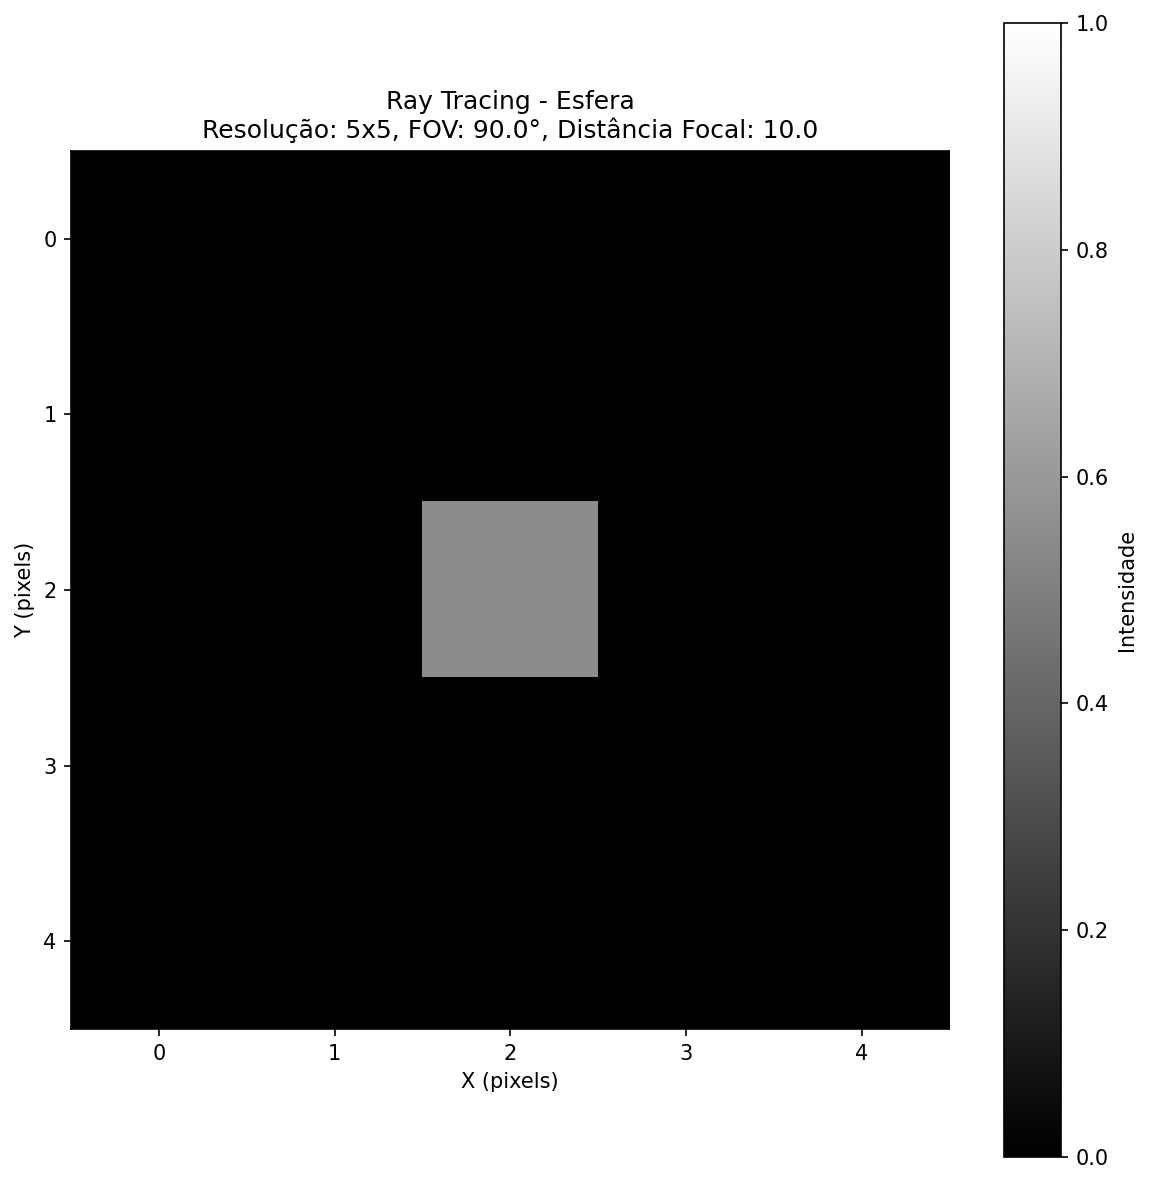
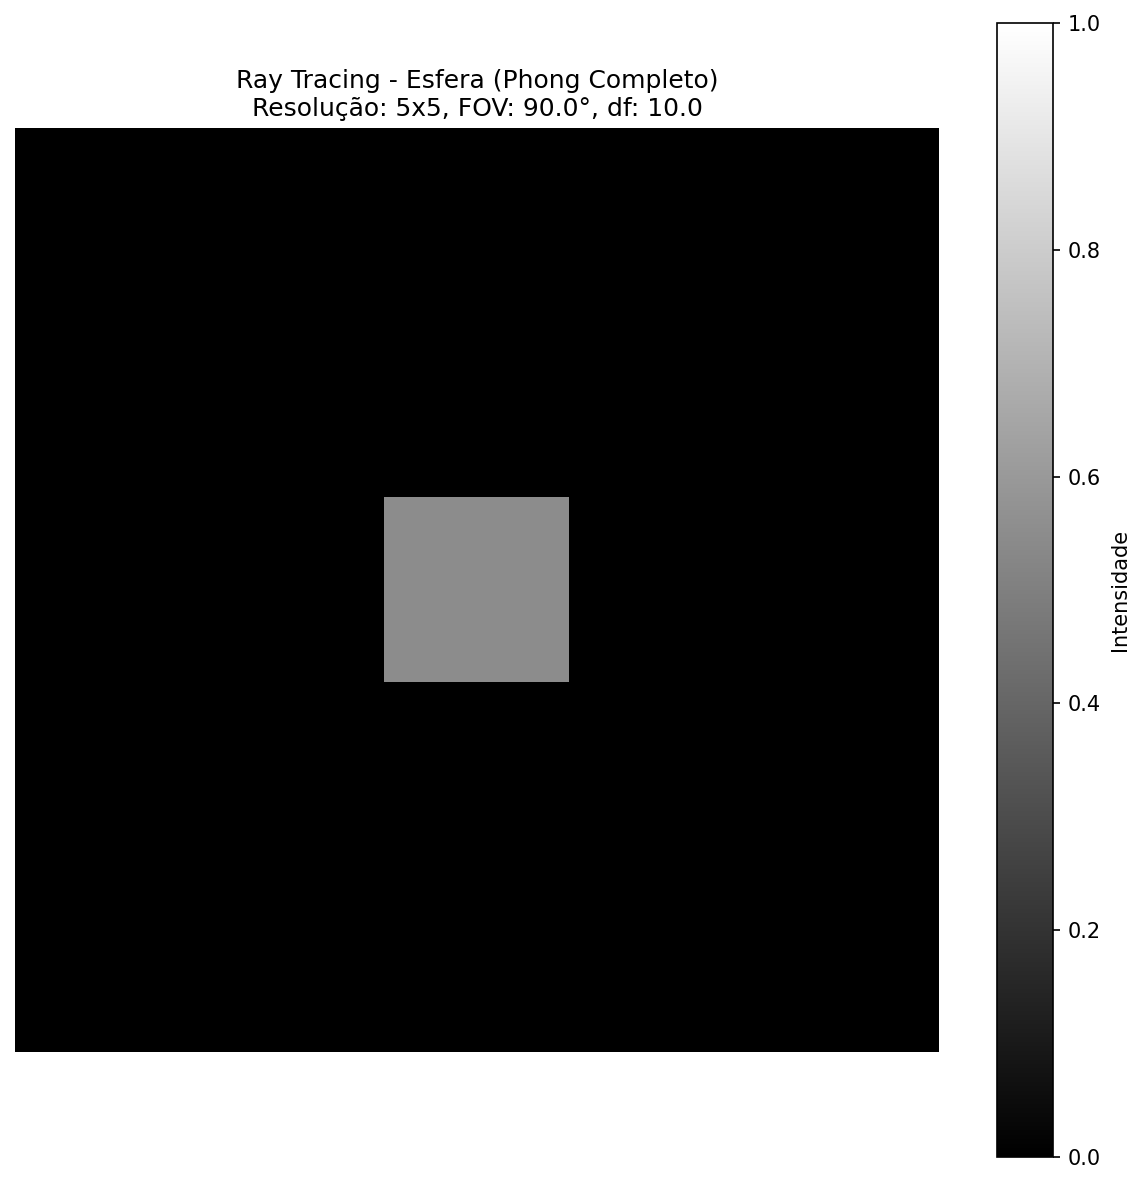
feat: Melhorias no código de ray_tracing.py + testes

diff --git a/ray_tracing.py b/ray_tracing.py
@@ -83,7 +83,7 @@ def intersect_esfera(origem, direcao, centro, raio):
         return None
 
 
-def intensidade_phong(ponto_intersecao, normal, direcao_camera):
+def intensidade_phong(ponto_intersecao, normal, direcao_camera, modo='completo'):
     """
     Calcula a intensidade de iluminação Phong no ponto de interseção.
     
@@ -93,6 +93,7 @@ def intensidade_phong(ponto_intersecao, normal, direcao_camera):
     - ponto_intersecao: ponto na superfície da esfera
     - normal: vetor normal à superfície no ponto
     - direcao_camera: direção do raio (da câmera ao ponto)
+    - modo: 'ambiente', 'difuso', 'especular' ou 'completo'
     
     Retorna:
     - intensidade (float): valor entre 0 e 1
@@ -107,17 +108,20 @@ def intensidade_phong(ponto_intersecao, normal, direcao_camera):
     k_especular = 0.3   # coeficiente especular
     n_brilho = 32       # expoente de brilho especular
     
-    # Componente ambiente
+    # ========== SOMBREAMENTO: COMPONENTE AMBIENTE ==========
+    # Iluminação base constante (não depende de posição da luz)
     I_ambiente = k_ambiente
     
+    # ========== SOMBREAMENTO: COMPONENTE DIFUSA ==========
     # Vetor da superfície à luz (L)
     L = normalize(luz_pos - ponto_intersecao)
     
     # Componente difusa: I_d = k_d * (N · L)
+    # Depende do ângulo entre a normal e a direção da luz
     NdotL = max(0, np.dot(normal, L))
     I_difusa = k_difusa * luz_intensidade * NdotL
     
-    # Componente especular (reflexão)
+    # ========== SOMBREAMENTO: COMPONENTE ESPECULAR ==========
     # Vetor de visão (V) - direção da câmera (oposta à direção do raio)
     V = normalize(-direcao_camera)
     
@@ -126,41 +130,46 @@ def intensidade_phong(ponto_intersecao, normal, direcao_camera):
     R = normalize(R)
     
     # I_s = k_s * (R · V)^n
+    # Cria o brilho especular (highlight)
     RdotV = max(0, np.dot(R, V))
     I_especular = k_especular * luz_intensidade * (RdotV ** n_brilho)
     
-    # Intensidade total
-    intensidade = I_ambiente + I_difusa + I_especular
+    # Retorna componente específica ou todas combinadas
+    if modo == 'ambiente':
+        intensidade = I_ambiente
+    elif modo == 'difuso':
+        intensidade = I_ambiente + I_difusa
+    elif modo == 'especular':
+        intensidade = I_ambiente + I_especular
+    else:  # 'completo'
+        intensidade = I_ambiente + I_difusa + I_especular
     
     # Limita o valor entre 0 e 1
     return min(1.0, max(0.0, intensidade))
 
 
-def renderizar():
+def renderizar(modo='completo'):
     """
     Renderiza a cena completa, gerando uma imagem do plano de projeção.
     
-    Para cada pixel:
-    1. Calcula a posição do pixel no plano de projeção
-    2. Cria um raio da câmera passando pelo pixel
-    3. Verifica interseção com a esfera
-    4. Calcula a iluminação Phong se houver interseção
-    5. Armazena a cor do pixel
+    ETAPAS DO RAY TRACING:
+    1. GERAÇÃO DOS RAIOS: Criar raio para cada pixel
+    2. INTERSEÇÃO RAIO-OBJETO: Verificar colisão com a esfera
+    3. SOMBREAMENTO: Calcular iluminação Phong
+    
+    Parâmetros:
+    - modo: tipo de sombreamento ('ambiente', 'difuso', 'especular', 'completo')
+    
+    Retorna:
+    - imagem: matriz de pixels com intensidades
     """
     # Cria a imagem (matriz de pixels)
     imagem = np.zeros((height, width))
     
-    print("Renderizando cena...")
-    print(f"Resolução: {width}x{height} pixels")
-    print(f"Câmera em: {eye}")
-    print(f"Distância focal: {df}")
-    print(f"FOV: {fov_deg}°")
-    print(f"Esfera: centro={centro_esfera}, raio={raio_esfera}")
-    print()
-    
     # Para cada pixel da imagem
     for i in range(height):
         for j in range(width):
+            # ========== ETAPA 1: GERAÇÃO DOS RAIOS ==========
             # Calcula a posição do pixel no plano de projeção
             # Plano de projeção está em x = eye_x + df = 0
             # Centro do plano está em (0, 0, 0)
@@ -174,9 +183,10 @@ def renderizar():
             # Ponto no plano de projeção
             pixel_pos = np.array([eye[0] + df, pixel_y, pixel_z])
             
-            # Direção do raio: da câmera ao pixel
+            # Direção do raio: da câmera ao pixel (normalizado)
             direcao_raio = normalize(pixel_pos - eye)
             
+            # ========== ETAPA 2: INTERSEÇÃO RAIO-OBJETO ==========
             # Verifica interseção com a esfera
             t = intersect_esfera(eye, direcao_raio, centro_esfera, raio_esfera)
             
@@ -187,8 +197,9 @@ def renderizar():
                 # Normal à superfície (aponta para fora da esfera)
                 normal = normalize(ponto - centro_esfera)
                 
-                # Calcula a intensidade usando Phong
-                intensidade = intensidade_phong(ponto, normal, direcao_raio)
+                # ========== ETAPA 3: SOMBREAMENTO ==========
+                # Calcula a intensidade usando modelo Phong
+                intensidade = intensidade_phong(ponto, normal, direcao_raio, modo)
                 
                 # Armazena o valor do pixel
                 imagem[i, j] = intensidade
@@ -196,32 +207,86 @@ def renderizar():
                 # Sem interseção - pixel preto (fundo)
                 imagem[i, j] = 0.0
     
-    print("Renderização concluída!")
     return imagem
 
 
 if __name__ == "__main__":
-    # Renderiza a cena
-    imagem = renderizar()
+    print("="*60)
+    print("RAY TRACING - RENDERIZANDO ESFERA COM ILUMINAÇÃO PHONG")
+    print("="*60)
+    print(f"Resolução: {width}x{height} pixels")
+    print(f"Câmera em: {eye}")
+    print(f"Distância focal: {df}")
+    print(f"FOV: {fov_deg}°")
+    print(f"Esfera: centro={centro_esfera}, raio={raio_esfera}")
+    print()
     
-    # Exibe a imagem
-    plt.figure(figsize=(8, 8))
-    plt.imshow(imagem, cmap='gray', vmin=0, vmax=1)
-    plt.title(f'Ray Tracing - Esfera\nResolução: {width}x{height}, FOV: {fov_deg}°, Distância Focal: {df}')
-    plt.colorbar(label='Intensidade')
-    plt.xlabel('X (pixels)')
-    plt.ylabel('Y (pixels)')
+    # Renderiza as 3 componentes do sombreamento + completo
+    imagem_ambiente = renderizar(modo='ambiente')
+    imagem_difuso = renderizar(modo='difuso')
+    imagem_especular = renderizar(modo='especular')
+    imagem_completo = renderizar(modo='completo')
+    
+    # Cria figura com 4 subplots (3 componentes + completo)
+    fig, axes = plt.subplots(2, 2, figsize=(12, 10))
+    
+    # Componente Ambiente
+    axes[0, 0].imshow(imagem_ambiente, cmap='gray', vmin=0, vmax=1)
+    axes[0, 0].set_title('Ambiente\n(Iluminação Base)', fontsize=10, fontweight='bold')
+    axes[0, 0].axis('off')
+    
+    # Componente Difuso
+    axes[0, 1].imshow(imagem_difuso, cmap='gray', vmin=0, vmax=1)
+    axes[0, 1].set_title('Difuso\n(Ambiente + Difusa)', fontsize=10, fontweight='bold')
+    axes[0, 1].axis('off')
+    
+    # Componente Especular
+    axes[1, 0].imshow(imagem_especular, cmap='gray', vmin=0, vmax=1)
+    axes[1, 0].set_title('Especular\n(Ambiente + Especular)', fontsize=10, fontweight='bold')
+    axes[1, 0].axis('off')
+    
+    # Phong Completo
+    axes[1, 1].imshow(imagem_completo, cmap='gray', vmin=0, vmax=1)
+    axes[1, 1].set_title('Phong Completo\n(Ambiente + Difusa + Especular)', fontsize=10, fontweight='bold')
+    axes[1, 1].axis('off')
+    
+    plt.suptitle(f'Ray Tracing - Modelo de Iluminação Phong\nResolução: {width}x{height}, FOV: {fov_deg}°, df: {df}', 
+                 fontsize=14, fontweight='bold', y=0.98)
     plt.tight_layout()
     
-    # Salva a imagem
-    plt.savefig('raytracing_esfera.png', dpi=150, bbox_inches='tight')
-    print("\nImagem salva como 'raytracing_esfera.png'")
+    # Salva a imagem comparativa
+    plt.savefig('raytracing_phong_completo.png', dpi=150, bbox_inches='tight') # Salva imagem comparativa
     
-    # Mostra a imagem
+    # Salva também apenas a imagem completa
+    # plt.figure(figsize=(8, 8))
+    # plt.imshow(imagem_completo, cmap='gray', vmin=0, vmax=1)
+    # plt.title(f'Ray Tracing - Esfera (Phong Completo)\nResolução: {width}x{height}, FOV: {fov_deg}°, df: {df}')
+    # plt.colorbar(label='Intensidade')
+    # plt.axis('off')
+    # plt.tight_layout()
+    # plt.savefig('raytracing_esfera.png', dpi=150, bbox_inches='tight') # Salva imagem
+    
+    # Mostra as imagens
     plt.show()
     
     print("\n" + "="*60)
-    print("EXERCÍCIO - Experimente alterar os parâmetros:")
+    print("ETAPAS DO RAY TRACING IMPLEMENTADAS:")
+    print("="*60)
+    print("1. GERAÇÃO DOS RAIOS:")
+    print("   - Calcula posição de cada pixel no plano de projeção")
+    print("   - Cria raio da câmera passando pelo pixel")
+    print()
+    print("2. INTERSEÇÃO RAIO-OBJETO:")
+    print("   - Resolve equação quadrática raio-esfera")
+    print("   - Encontra ponto de interseção mais próximo")
+    print()
+    print("3. SOMBREAMENTO (Modelo Phong):")
+    print("   - Componente Ambiente: iluminação base constante")
+    print("   - Componente Difusa: depende do ângulo luz-normal")
+    print("   - Componente Especular: cria reflexo brilhante")
+    print()
+    print("="*60)
+    print("PARA ALTERAR OS PARÂMETROS:")
     print("="*60)
     print("a) Distância focal (df): Altere o valor na linha 12")
     print("   - df menor = objeto parece maior")
@@ -230,9 +295,4 @@ if __name__ == "__main__":
     print("b) Campo de visão (fov_deg): Altere o valor na linha 13")
     print("   - FOV menor = zoom (visão mais estreita)")
     print("   - FOV maior = wide angle (visão mais ampla)")
-    print()
-    print("Sugestões para testar:")
-    print("  - df = 5.0 ou df = 20.0")
-    print("  - fov_deg = 45.0 ou fov_deg = 120.0")
-    print("  - width, height = 100, 100 (para imagem maior)")
     print("="*60)

diff --git a/teste/teste.py b/teste/teste.py
@@ -1,0 +1,149 @@
+# Enhanced Phong visualization with multiple colored spheres (ambient, diffuse, specular)
+# Saves a side-by-side image similar to the user's reference.
+import numpy as np
+import matplotlib.pyplot as plt
+
+# ---------- Camera & image ----------
+W, H = 512, 320  # wide layout
+aspect = W / H
+eye = np.array([-8.0, 0.0, 0.0], dtype=float)
+fov = np.deg2rad(60)
+df = 6.0
+half_h = df * np.tan(fov * 0.5)
+half_v = half_h / aspect
+
+# ---------- Scene: three spheres ----------
+# Big red, small blue, small green
+spheres = [
+    {"center": np.array([3.0, 0.0, 0.0]), "radius": 1.6, "color": np.array([0.95, 0.1, 0.1]),
+     "ka": 0.15, "kd": 0.85, "ks": 0.25, "shininess": 64},
+    {"center": np.array([2.3, -0.55, 0.4]), "radius": 0.5, "color": np.array([0.1, 0.35, 0.95]),
+     "ka": 0.18, "kd": 0.85, "ks": 0.3, "shininess": 96},
+    {"center": np.array([4.1, 0.65, -0.15]), "radius": 0.4, "color": np.array([0.3, 0.95, 0.3]),
+     "ka": 0.18, "kd": 0.85, "ks": 0.35, "shininess": 32},
+]
+
+# ---------- Light ----------
+light_pos = np.array([-2.0, 2.5, 2.0])
+light_int = 1.2
+
+bg_color = np.array([0.02, 0.02, 0.02])
+
+def normalize(v):
+    n = np.linalg.norm(v, axis=-1, keepdims=True)
+    n = np.where(n==0, 1.0, n)
+    return v / n
+
+def intersect_sphere(ro, rd, center, radius):
+    # returns t or np.inf
+    oc = ro - center
+    b = np.sum(rd * oc, axis=-1)
+    c = np.sum(oc * oc, axis=-1) - radius * radius
+    disc = b*b - c
+    hit = disc >= 0
+    t = np.where(hit, -b - np.sqrt(np.maximum(disc, 0.0)), np.inf)
+    t2 = np.where(hit, -b + np.sqrt(np.maximum(disc, 0.0)), np.inf)
+    # pick closest positive
+    t = np.where((t > 1e-4), t, np.where((t2 > 1e-4), t2, np.inf))
+    return t
+
+# Build primary rays
+ys = np.linspace(-half_v, half_v, H)
+zs = np.linspace(half_h, -half_h, W)
+py, pz = np.meshgrid(ys, zs, indexing='ij')
+px = np.full_like(py, eye[0] + df)
+pixels = np.stack([px, py, pz], axis=-1)
+rays = normalize(pixels - eye)
+
+# Trace against all spheres
+tmin = np.full((H, W), np.inf)
+sid = np.full((H, W), -1, dtype=int)
+
+for i, s in enumerate(spheres):
+    t = intersect_sphere(eye, rays, s["center"], s["radius"])
+    mask = t < tmin
+    tmin = np.where(mask, t, tmin)
+    sid[mask] = i
+
+hit = sid >= 0
+P = eye + rays * tmin[..., None]  # hit points
+N = np.zeros_like(P)
+color = np.zeros((H, W, 3))
+ka = np.zeros((H, W, 1))
+kd = np.zeros((H, W, 1))
+ks = np.zeros((H, W, 1))
+shin = np.zeros((H, W, 1))
+
+# Fill per-hit material and normal
+for i, s in enumerate(spheres):
+    m = hit & (sid == i)
+    if not np.any(m):
+        continue
+    N[m] = normalize(P[m] - s["center"])
+    color[m] = s["color"]
+    ka[m] = s["ka"]
+    kd[m] = s["kd"]
+    ks[m] = s["ks"]
+    shin[m] = s["shininess"]
+
+# Lighting vectors
+L = normalize(light_pos - P)
+V = normalize(eye - P)
+R = normalize(2.0 * (np.sum(N*L, axis=-1, keepdims=True)) * N - L)
+
+# Components
+Iamb = ka * color
+Idif = kd * color * np.maximum(0.0, np.sum(N*L, axis=-1, keepdims=True)) * light_int
+Ispe = ks * (np.maximum(0.0, np.sum(R*V, axis=-1, keepdims=True)) ** np.maximum(shin,1.0)) * light_int
+
+# Shadow (simple hard shadow): cast ray from P toward light; if occluded, zero out dif/spec
+# move origin slightly along normal to avoid self-intersection
+shadow = np.ones((H, W, 1), dtype=float)
+Po = P + N * 1e-3
+to_light = normalize(light_pos - Po)
+for i, s in enumerate(spheres):
+    # do not self-occlude check via sid
+    t = intersect_sphere(Po, to_light, s["center"], s["radius"])
+    # where t is finite and less than light distance, it's in shadow
+    dist_l = np.linalg.norm(light_pos - Po, axis=-1, keepdims=True)
+    occ = (t[..., None] < dist_l) & (t[..., None] < np.inf) & (sid[..., None] != i)
+    shadow = np.where(occ, 0.0, shadow)
+
+Idif *= shadow
+Ispe *= shadow
+
+# Compose passes
+img_ambient  = np.where(hit[..., None], Iamb, bg_color)
+img_diffuse  = np.where(hit[..., None], Iamb + Idif, bg_color)
+img_specular = np.where(hit[..., None], Iamb + Ispe, bg_color)
+img_full     = np.where(hit[..., None], Iamb + Idif + Ispe, bg_color)
+
+# Simple tone mapping/gamma
+def post(x):
+    x = np.clip(x, 0, 1.0)
+    return np.power(x, 1/2.2)
+
+img_ambient  = post(img_ambient)
+img_diffuse  = post(img_diffuse)
+img_specular = post(img_specular)
+img_full     = post(img_full)
+
+# Plot similar to reference: three panels + title labels
+fig, axes = plt.subplots(1, 3, figsize=(12, 4))
+titles = ["Ambiente", "Difuso", "Especular"]
+for ax, im, t in zip(axes, [img_ambient, img_diffuse, img_specular], titles):
+    ax.imshow(im, origin='upper')
+    ax.set_title(t, fontsize=16, fontweight='bold')
+    ax.axis('off')
+
+plt.tight_layout()
+plt.savefig('phong_ambient_diffuse_specular.png', dpi=160, bbox_inches='tight')
+
+# Also save a 4th full image
+plt.figure(figsize=(4,4))
+plt.imshow(img_full, origin='upper')
+plt.title("Phong Completo", fontsize=14, fontweight='bold')
+plt.axis('off')
+plt.tight_layout()
+plt.savefig('phong_full.png', dpi=160, bbox_inches='tight')
+
